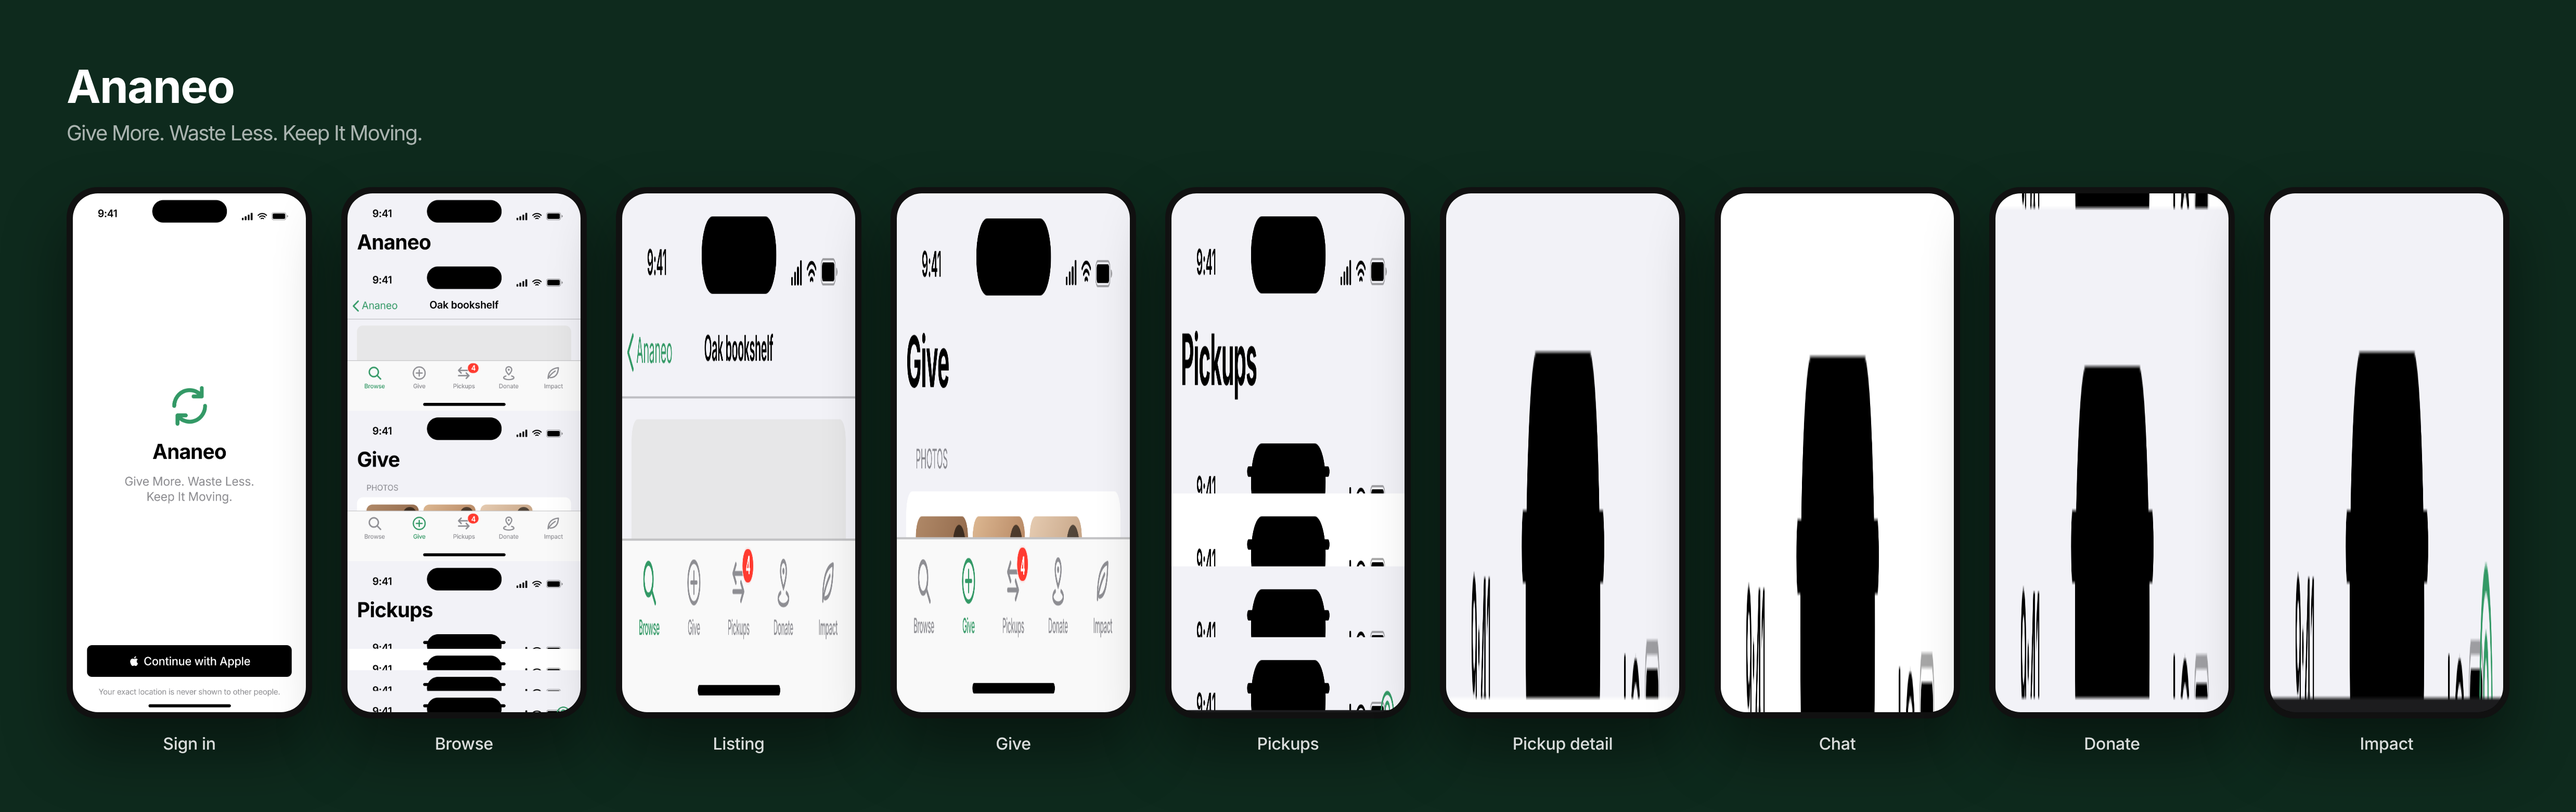
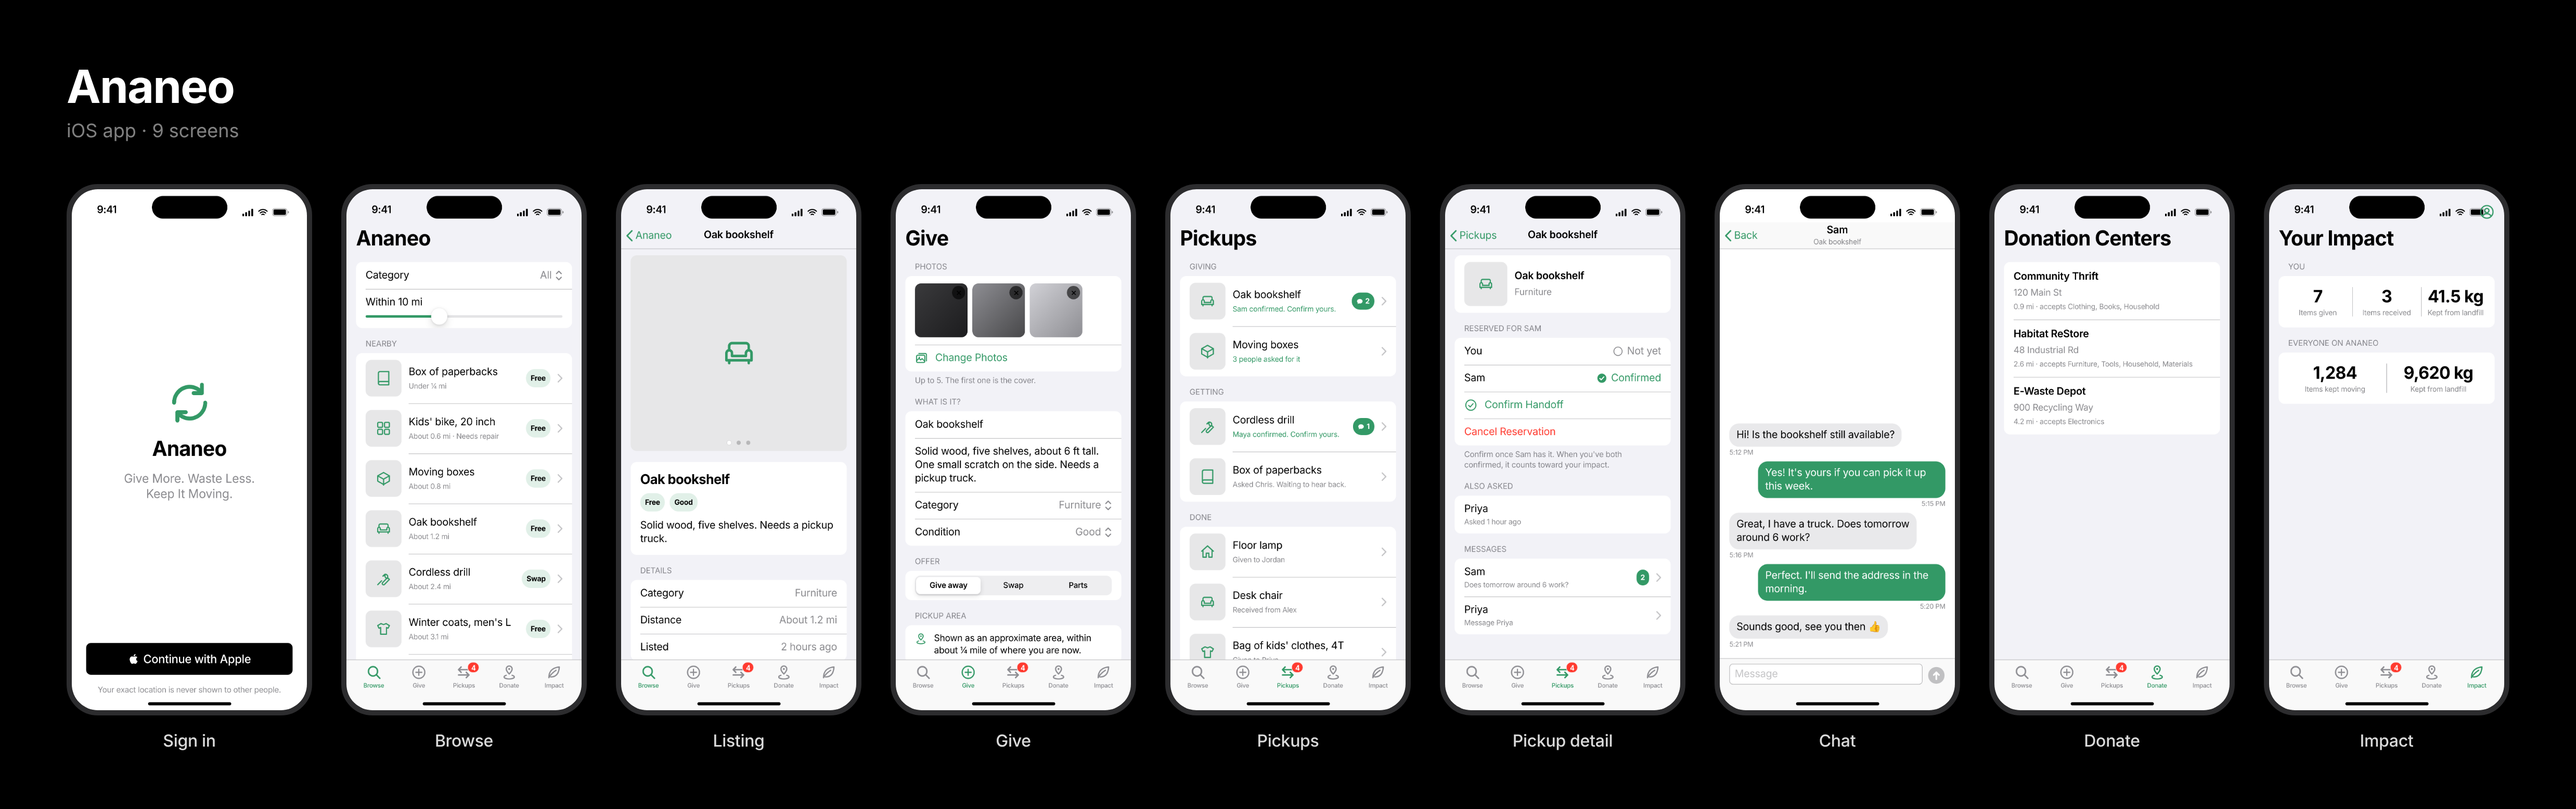
Fix broken Browse and Pickups screenshots, neutral slide styling
Three closing tags were lost when titles were shortened, which nested
the later screens inside Browse. Overview sheet is now plain black,
photo tiles are gray, and an accent-color comparison is included.

Claude-Session: https://claude.ai/code/session_01HJYZ3mu5EoNwedgh4Eirc3

diff --git a/Ananeo/docs/screenshots/README.md b/Ananeo/docs/screenshots/README.md
@@ -1,6 +1,6 @@
 # Ananeo screenshots
 
-Presentation images of each screen, 1179 × 2556 px (iPhone 6.1" at 3x). `00-overview.png` puts all nine on one slide.
+Presentation images of each screen, 1179 × 2556 px (iPhone 6.1" at 3x). `00-overview.png` puts all nine on one slide. `accent-options.png` shows Browse and Pickups in four candidate tint colors.
 
 These were rendered from the SwiftUI views' layout and sample data, not captured from the iOS Simulator, so item photos appear as the app's category placeholders. To capture real ones instead, run the app in the Simulator and grab the screen:
 
